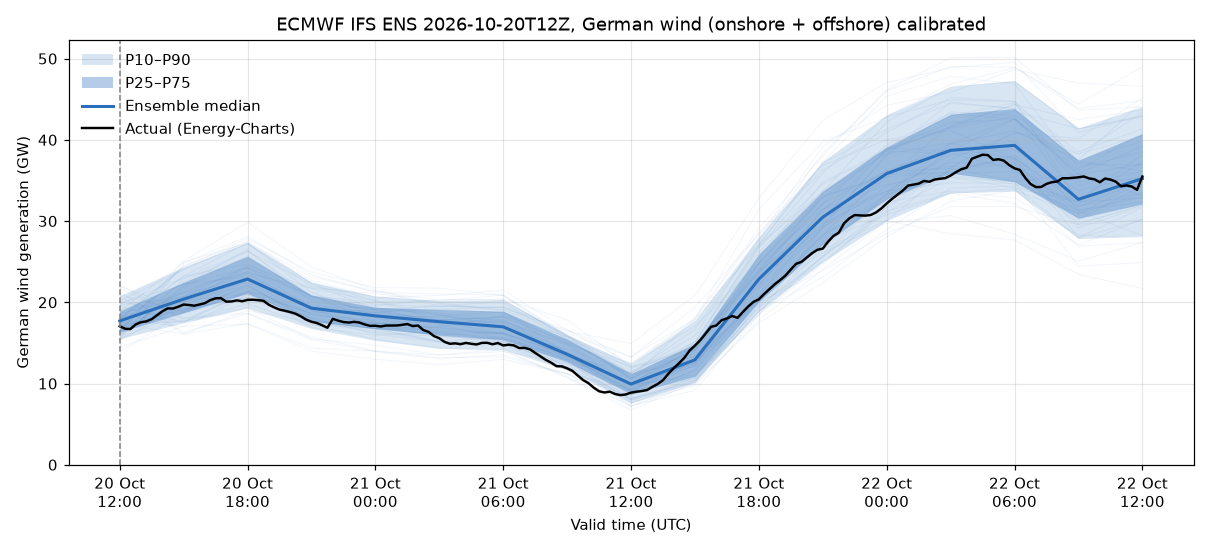
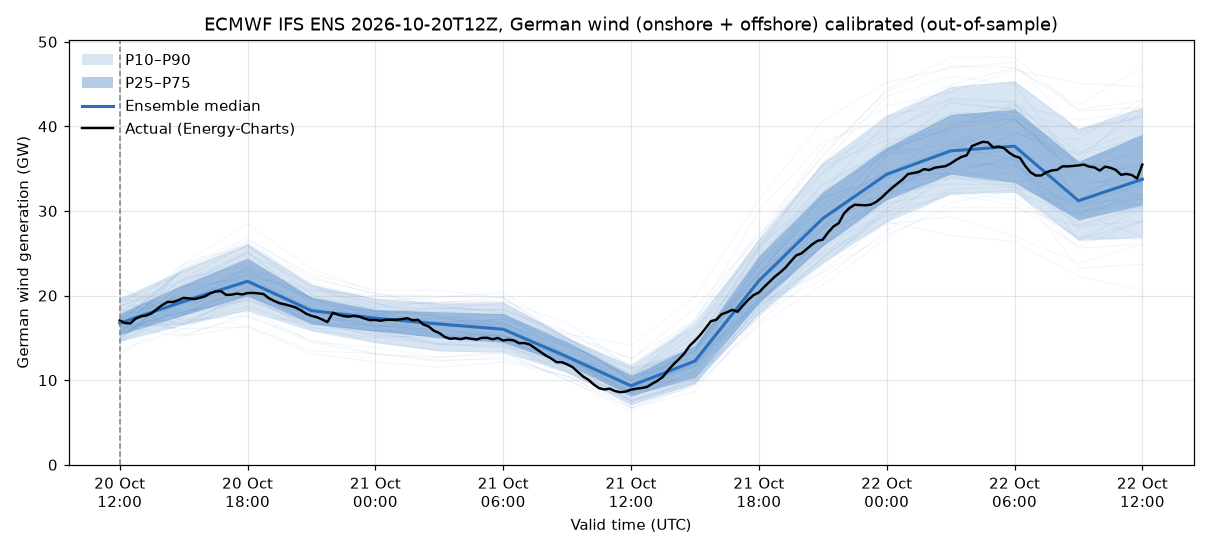
README: drop the outdated 4-run results, show the month-long evaluation
The 4-run leave-one-run-out table contradicted the 31-run rolling-origin
results further down. The raw vs calibrated fan charts now sit under the
31-run results, the calibrated chart uses the run's out-of-sample scales,
and the rank histogram is shown.

diff --git a/README.md b/README.md
@@ -13,23 +13,7 @@ ECMWF open data (ENS, 50 perturbed members, 100 m u/v, 0.25°)
 
 ![Fan chart: ECMWF ENS 2026-10-20 00Z forecast vs actual German wind generation](docs/fan_chart_2026-10-20T00.png)
 
-## Results (4 ENS runs, 20–21 Oct 2026, 48 h each)
-
-Each run was scored with scale factors fitted on the other three runs (leave-one-run-out):
-
-| Run | MAE raw → calibrated (GW) | CRPS raw → calibrated (GW) | P10–P90 coverage raw → calibrated |
-|---|---|---|---|
-| 2026-10-20 00Z | 2.98 → 2.01 | 2.12 → 1.47 | 59% → 76% |
-| 2026-10-20 12Z | 6.55 → 2.39 | 4.89 → 1.58 | 18% → 94% |
-| 2026-10-21 00Z | 4.90 → 2.07 | 3.50 → 1.53 | 35% → 88% |
-| 2026-10-21 12Z | 5.69 → 2.58 | 3.89 → 1.76 | 53% → 100% |
-| **Mean** | **5.03 → 2.26** | **3.60 → 1.58** | **41% → 90%** |
-
-The raw ensemble catches the timing of the ramps but converts wind to too much power. The scale factors are 0.85 onshore and 0.74 offshore. After calibration the P10–P90 band is slightly too wide (90% coverage against a target of about 80%), so spread calibration (EMOS) is the next step.
-
-| Raw | Calibrated |
-|---|---|
-| ![raw](docs/fan_chart_2026-10-20T12_raw.png) | ![calibrated](docs/fan_chart_2026-10-20T12_calibrated.png) |
+See [Results](#results-31-runs-23-sep--21-oct-2026) for the month-long evaluation.
 
 ## Setup
 
@@ -128,6 +112,14 @@ Then open http://127.0.0.1:8000/ for the chart or http://127.0.0.1:8000/docs for
 - **Offshore stays poorly calibrated:** coverage is 25% even after scaling. Most members sit on the flat top of the power curve, so the offshore spread collapses, and a scale factor cannot bring it back. Raw offshore is no better than persistence (CRPSS −0.03).
 - **The bias drifts.** Fitted one week at a time, the actual/forecast ratio rises from 0.78 to 0.86 onshore and from 0.49 to 0.75 offshore over the month. The expanding-window scale lags behind it, which leaves the calibrated forecast about 1.1 GW too low (the rank histogram slopes up to the right).
 - **Caveats:** this is one month (autumn), and neighbouring valid times are strongly correlated, so treat it as about 24 independent days, not 248 cases.
+
+![Rank histograms: raw piles up on the left (forecast too high); calibrated is close to flat](docs/rank_histogram.png)
+
+The 2026-10-20 12Z run, raw and calibrated with the rolling-origin scales it would have had live:
+
+| Raw | Calibrated (out-of-sample) |
+|---|---|
+| ![raw](docs/fan_chart_2026-10-20T12_raw.png) | ![calibrated](docs/fan_chart_2026-10-20T12_calibrated.png) |
 
 ## Limitations and next steps
 
